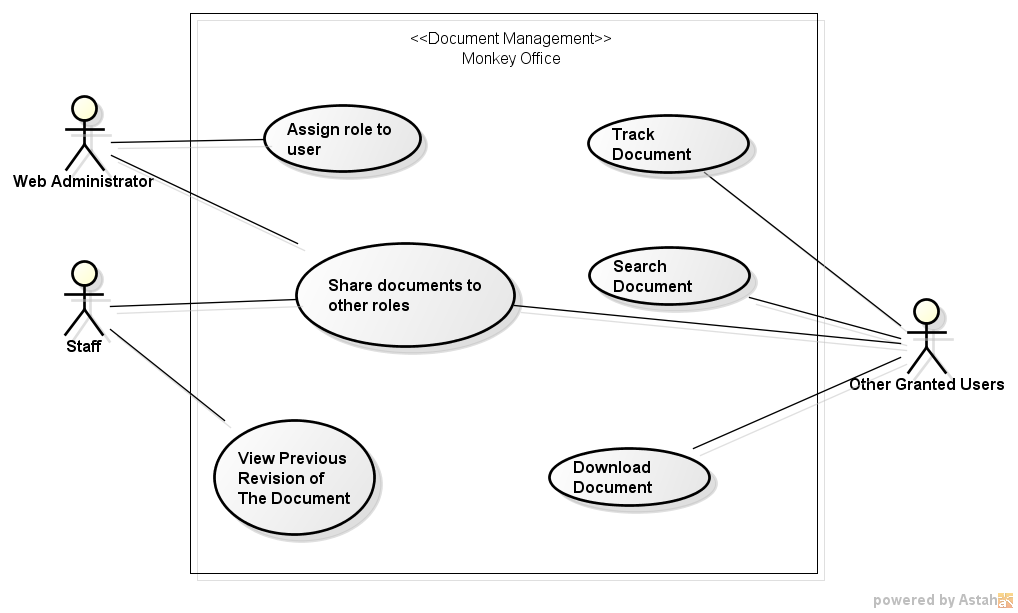
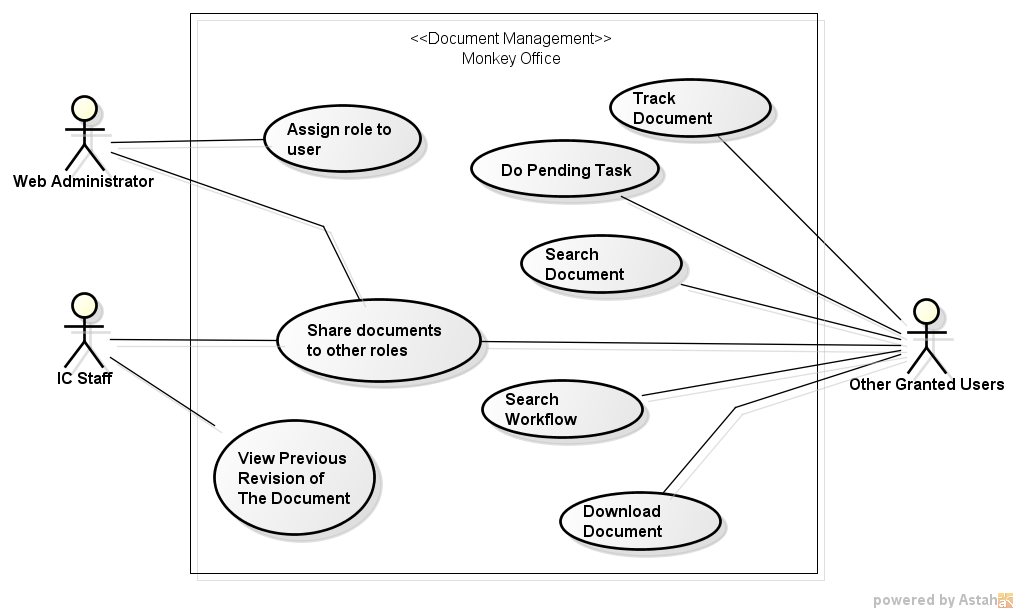
[usecase diagram] replace figure and update actor's name

diff --git a/requirement.tex b/requirement.tex
@@ -392,7 +392,7 @@ From table \ref{tbl:usecase-first} to table \ref{tbl:usecase-last} elaborates ea
 		\hline
 		
 		\textbf{Description} & Let a group of users categorized by roles to have read-access to the document \\
-		\textbf{Primary Actor} & Web administrator, staff, and other granted users \\
+		\textbf{Primary Actor} & Web administrator, \gls{ic} staff, and other granted users \\
 		\textbf{Pre-condition} & 
 		\begin{enumerate}
 			\item \alreadylogin.
@@ -421,7 +421,7 @@ From table \ref{tbl:usecase-first} to table \ref{tbl:usecase-last} elaborates ea
 		\hline
 		
 		\textbf{Description} & Find out more information about the previous revision of the same document \\
-		\textbf{Primary Actor} & Staff \\
+		\textbf{Primary Actor} & \gls{ic} staff \\
 		\textbf{Pre-condition} & 
 		\begin{enumerate}
 			\item \alreadylogin.
